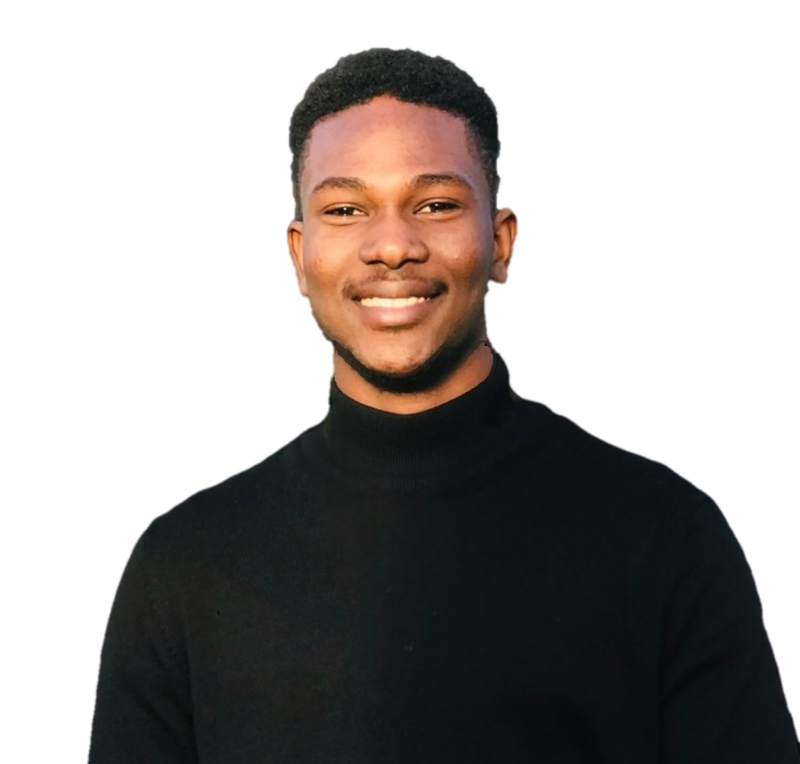
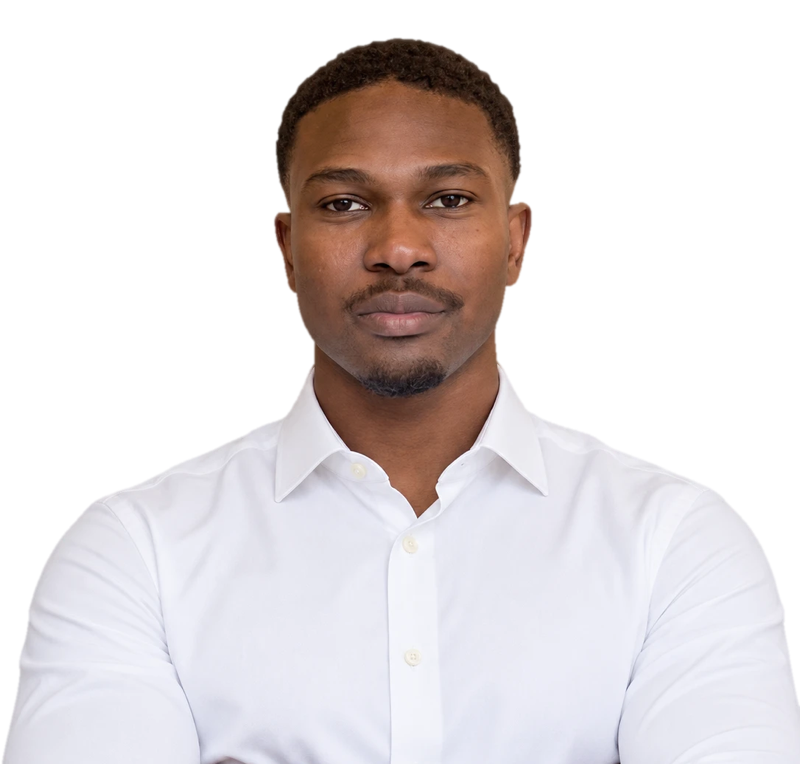
Changer la photo du portrait

diff --git a/index.html b/index.html
@@ -41,7 +41,7 @@
           <p class="hero-summary">Pendant trois ans chez Generali, j’ai construit des pipelines marketing et travaillé sur la migration vers Snowflake. Je produisais aussi les indicateurs de performance des campagnes, suivis chaque semaine et chaque mois par le marketing digital, la direction et les équipes commerciales.</p>
           <div class="hero-actions"><a class="text-button" href="#projets">Voir les projets</a><a class="text-button" href="notes/index.html">Voir les publications</a></div>
         </div>
-        <figure class="opening-portrait"><img src="media/portrait.png?v=20261006j" width="800" height="764" alt="Portrait d’Ikel Ouedraogo" /><figcaption>Ikel Ouedraogo</figcaption></figure>
+        <figure class="opening-portrait"><img src="media/portrait.png?v=20261007a" width="800" height="764" alt="Portrait d’Ikel Ouedraogo" /><figcaption>Ikel Ouedraogo</figcaption></figure>
       </section>
 
       <section class="section shell" id="projets">

diff --git a/en/index.html b/en/index.html
@@ -41,7 +41,7 @@
           <p class="hero-summary">For three years at Generali, I built marketing pipelines and worked on the migration to Snowflake. I also produced the campaign performance metrics that digital marketing, management and sales teams followed every week and every month.</p>
           <div class="hero-actions"><a class="text-button" href="#projets">See projects</a><a class="text-button" href="../notes/index.html">See publications</a></div>
         </div>
-        <figure class="opening-portrait"><img src="../media/portrait.png?v=20261006j" width="800" height="764" alt="Portrait of Ikel Ouedraogo" /><figcaption>Ikel Ouedraogo</figcaption></figure>
+        <figure class="opening-portrait"><img src="../media/portrait.png?v=20261007a" width="800" height="764" alt="Portrait of Ikel Ouedraogo" /><figcaption>Ikel Ouedraogo</figcaption></figure>
       </section>
 
       <section class="section shell" id="projets">
